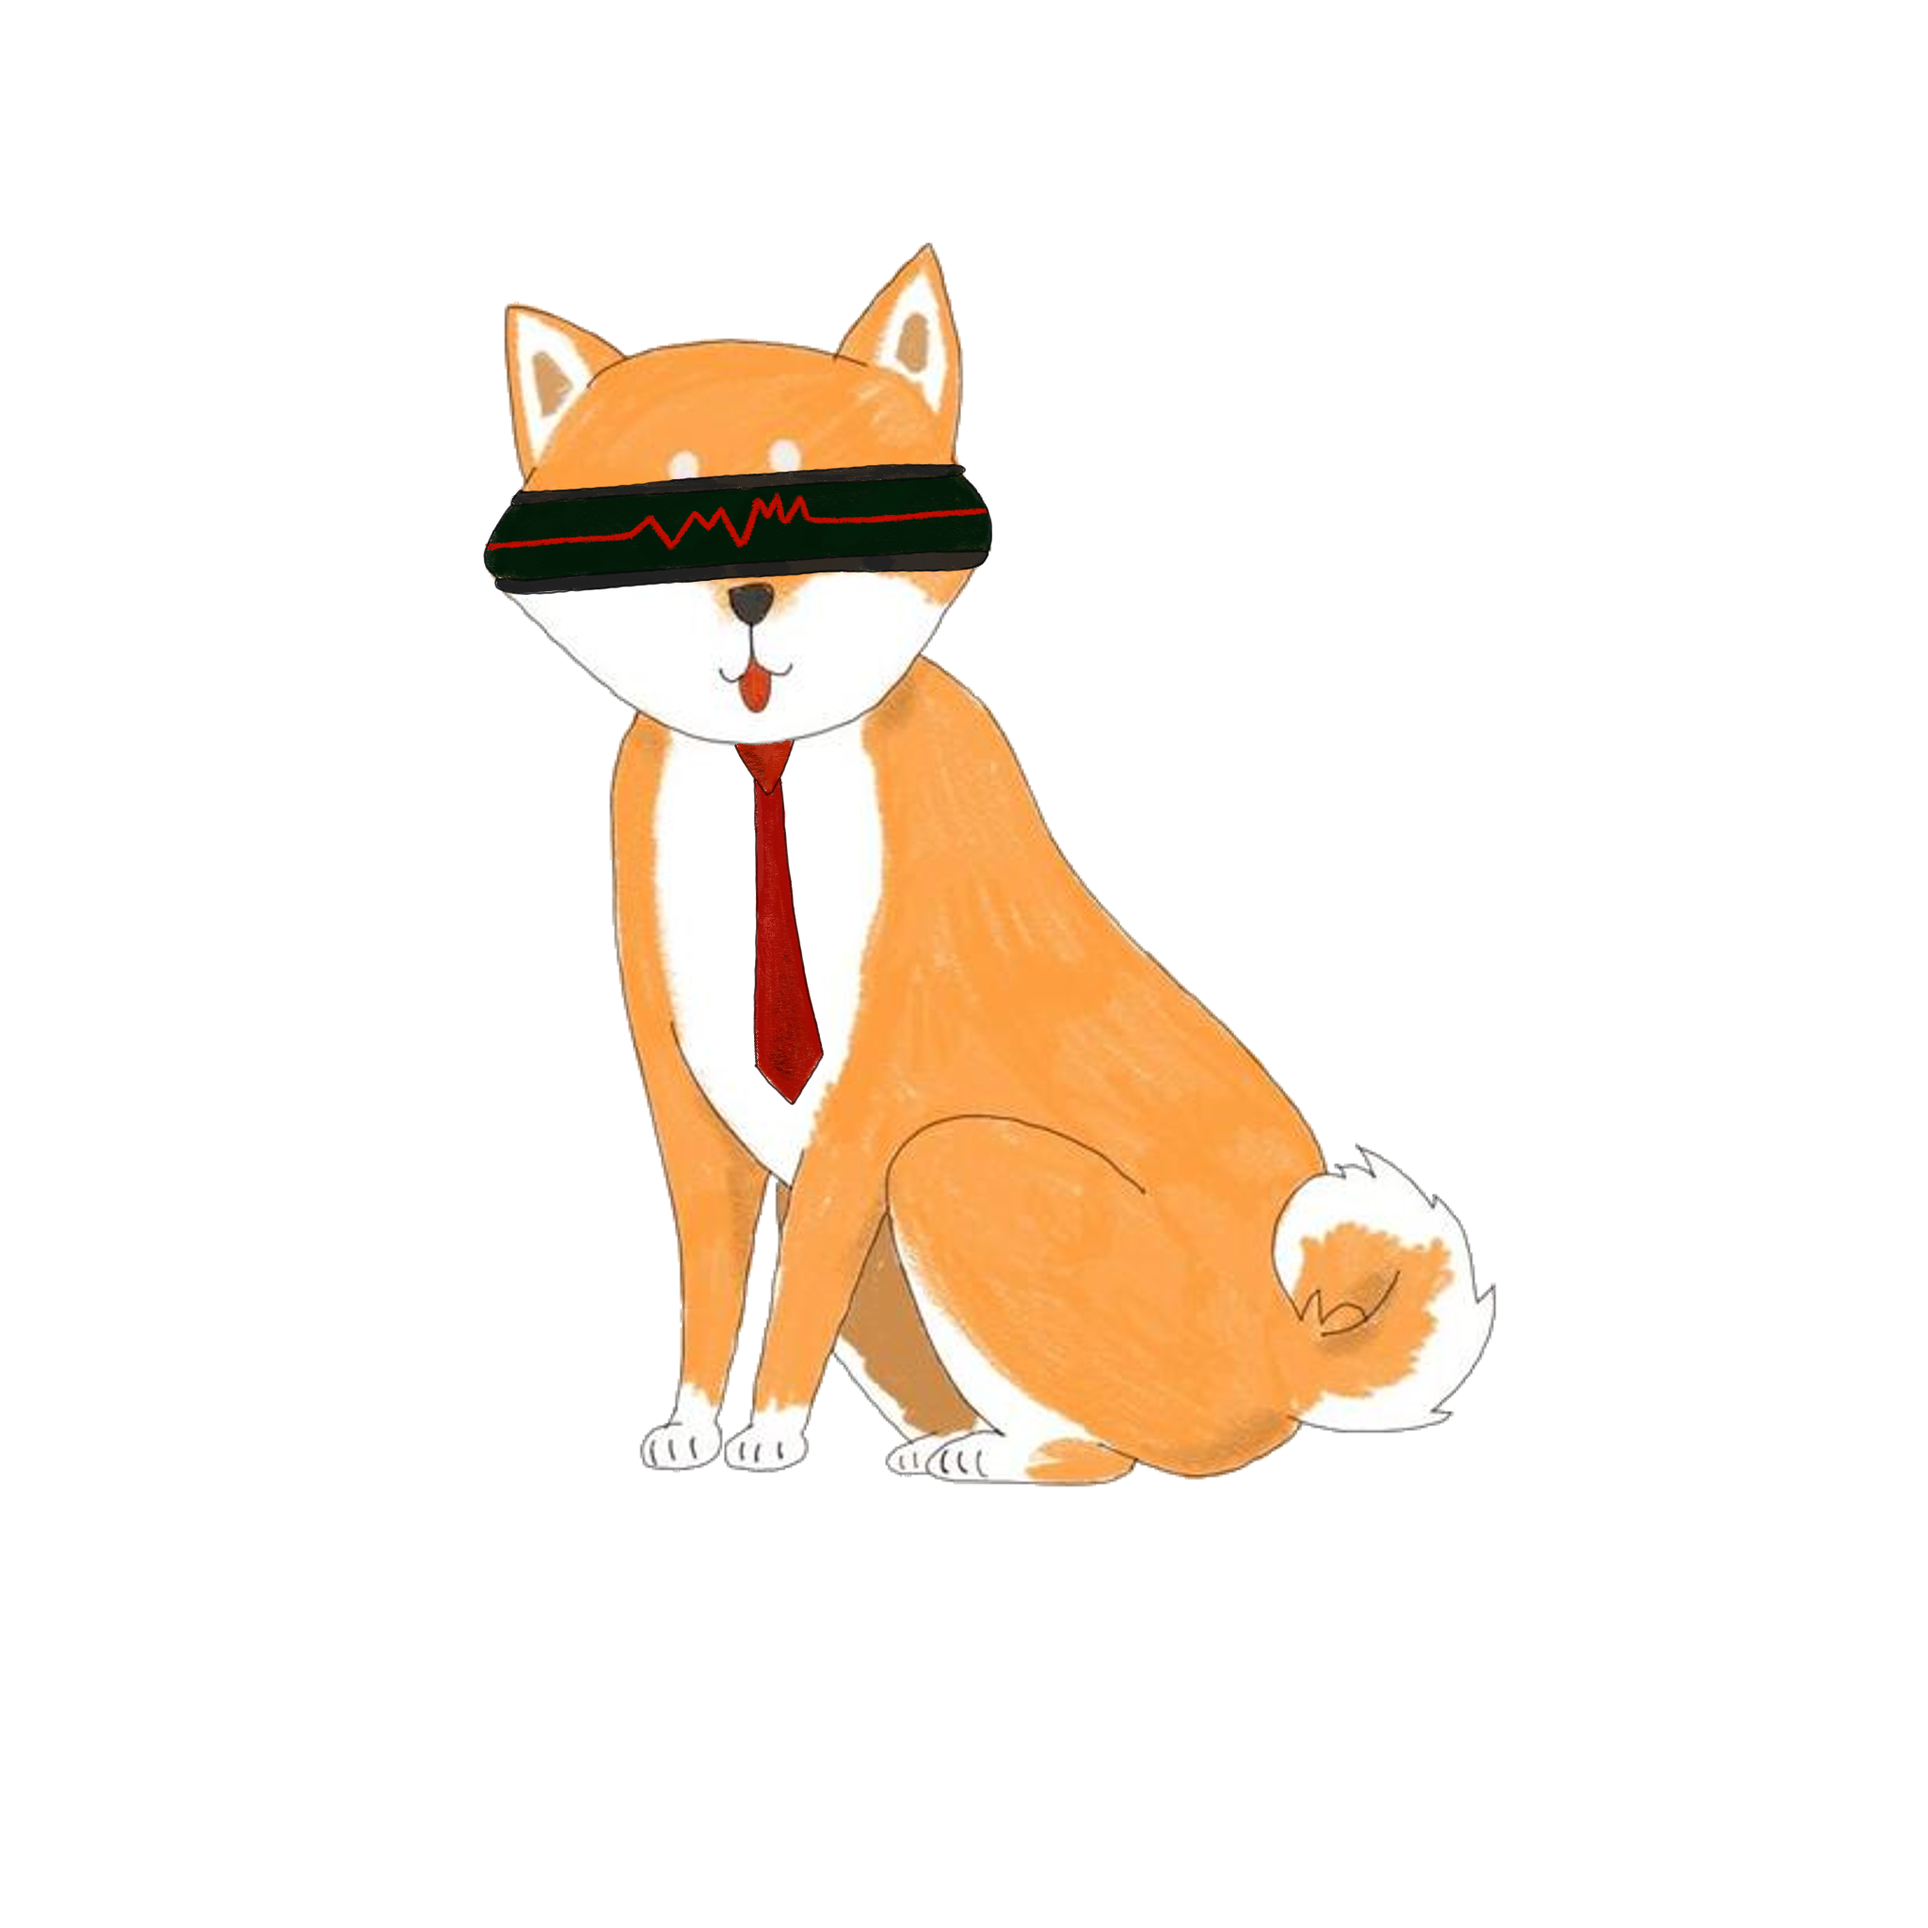
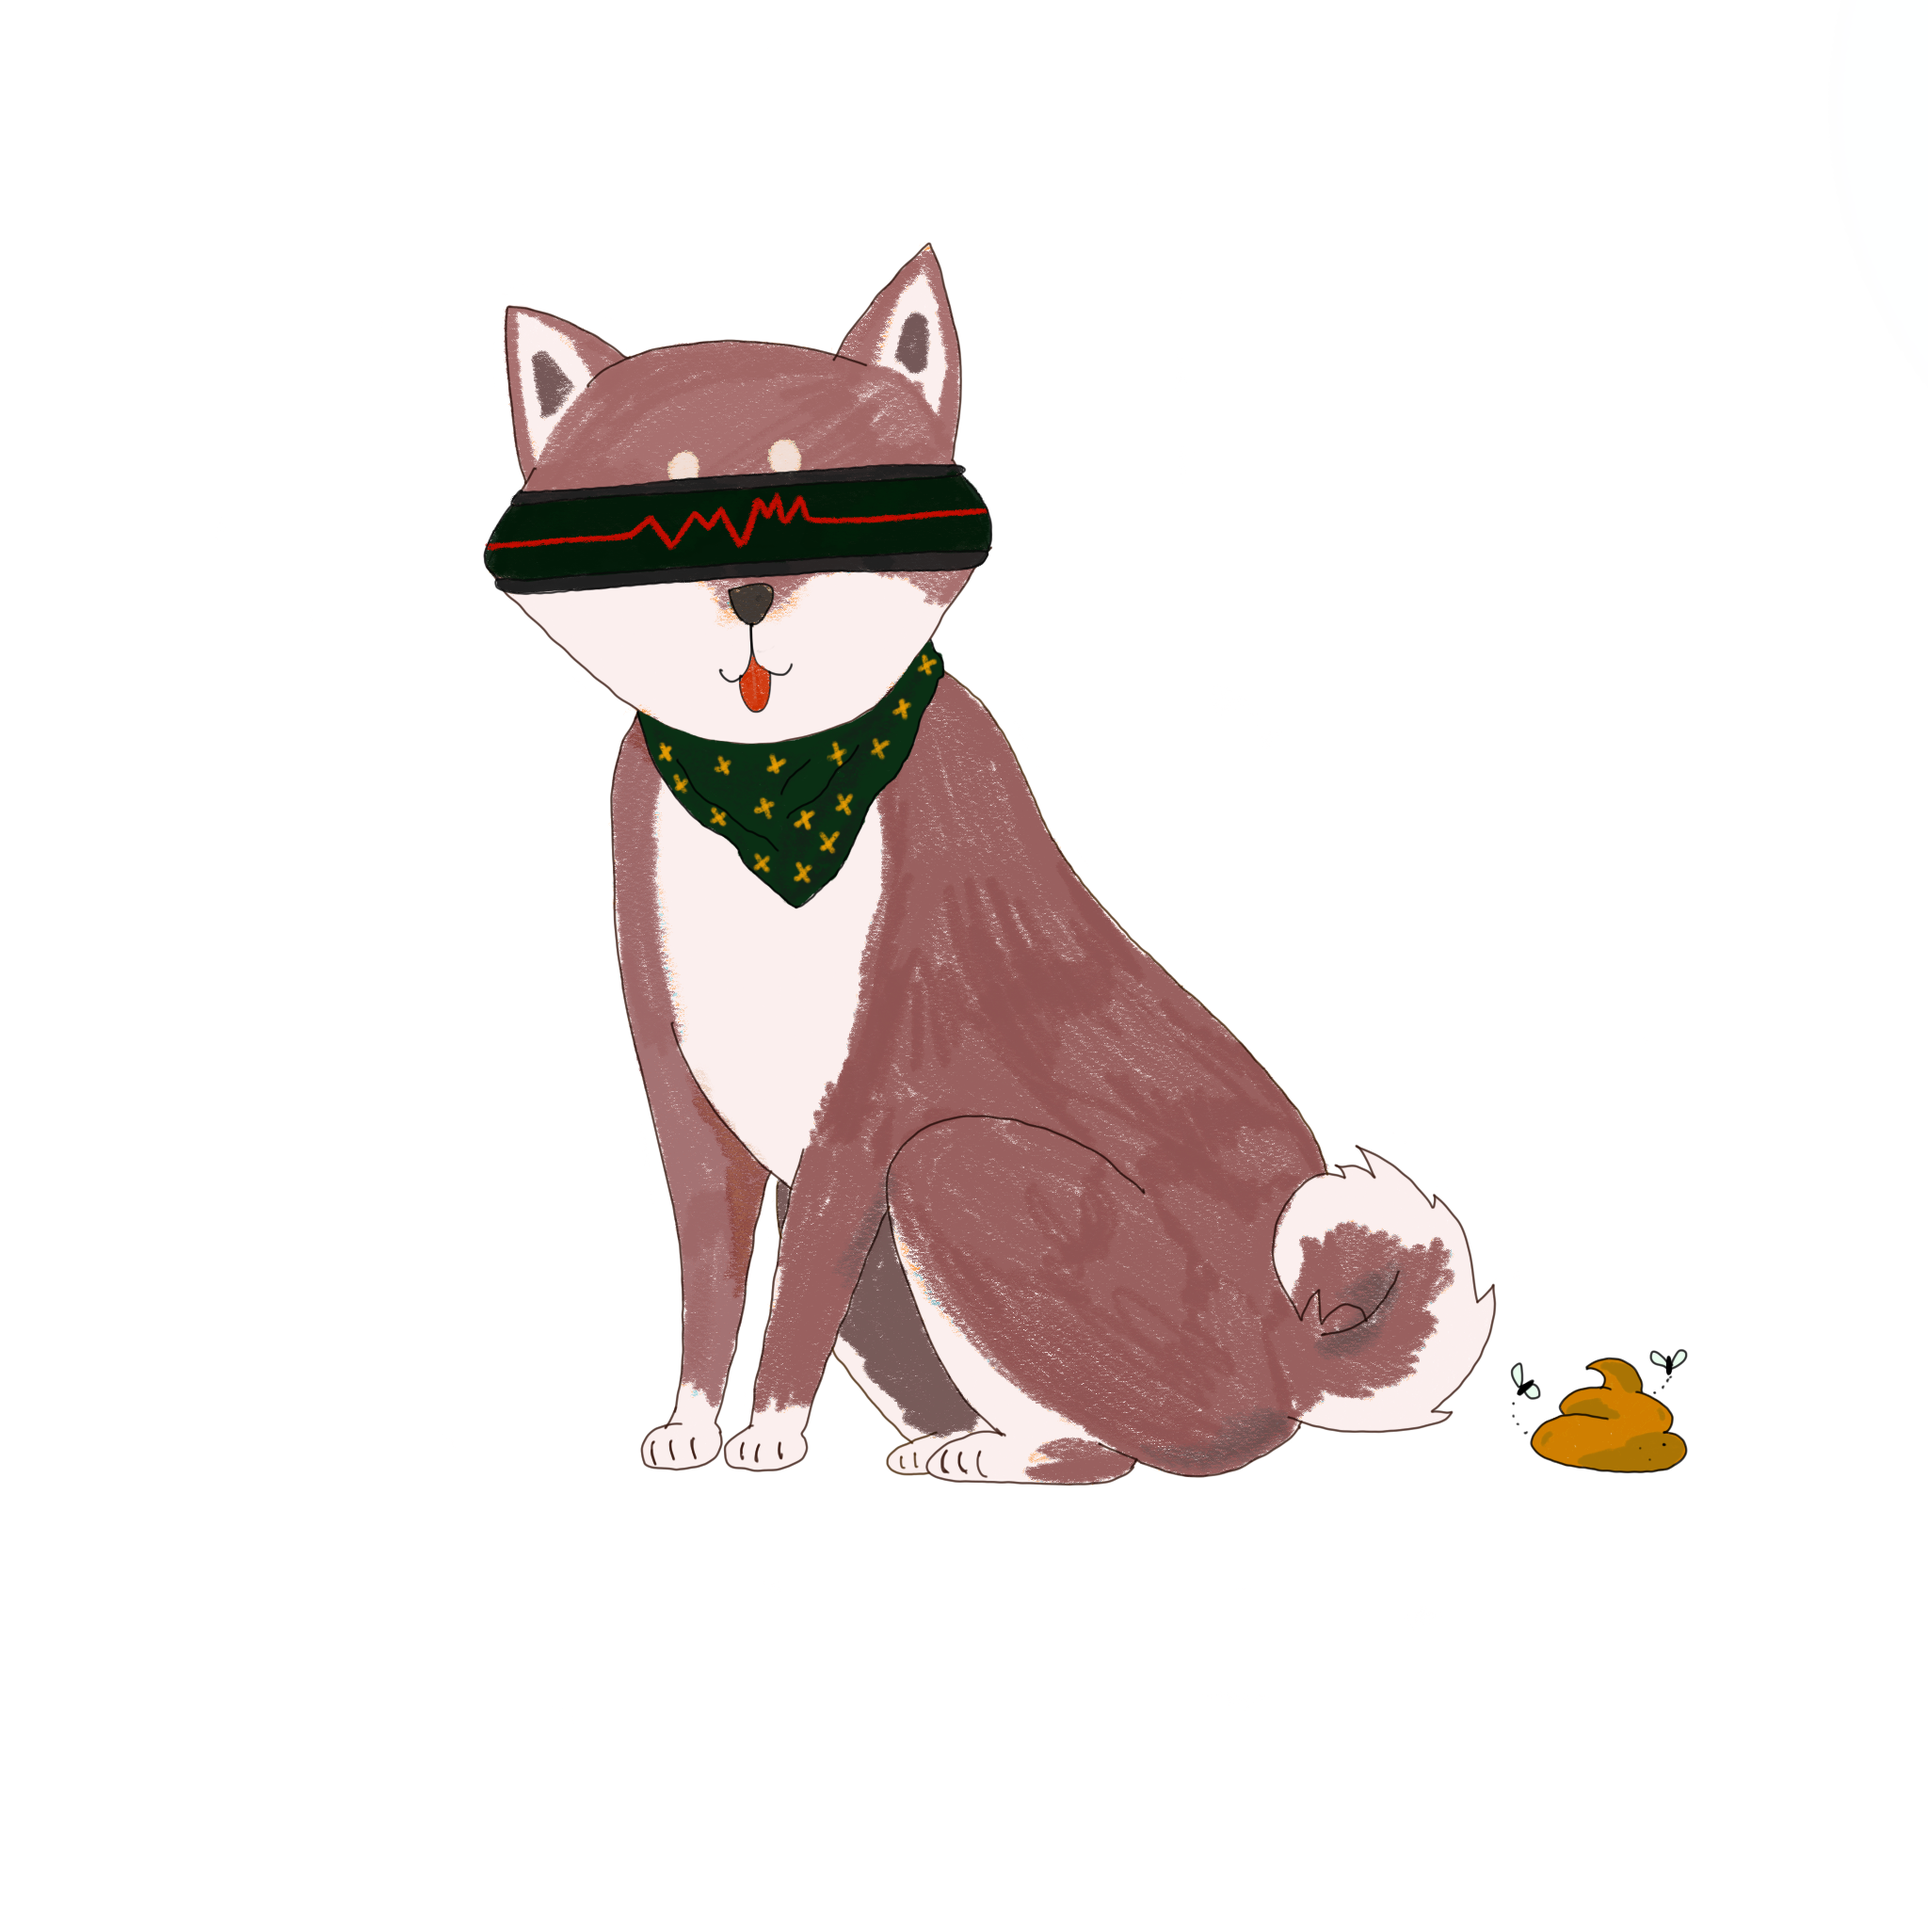
fixed nft generation + added more accessories

Changed region(s): [[0.3125, 0.2812, 0.7812, 0.7812], [0.25, 0.125, 0.5, 0.2812], [0.7812, 0.6875, 0.875, 0.7812]]

diff --git a/backend/nft.py b/backend/nft.py
@@ -6,32 +6,73 @@ import requests
 from base64 import b64encode
 import math
 
+# defining the total number of images for each
+num_hats = 1
+num_glasses = 4
+num_neck = 4
+num_shiba = 6
+num_poop = 9
 
-def generate_index(amount, num_hats, num_glasses, limit):
+def generate_index(amount, limit):
     hat = random.randint(1, int(amount))
     glasses = random.randint(1, int(amount))
+    neck = random.randint(1, int(amount))
+    shiba = random.randint(1, int(amount))
+    poop = random.randint(1, int(amount))
+
     hat_limit = limit/num_hats
     glasses_limit = limit/num_glasses
-    hat_index = hat_limit/hat
+    neck_limit = limit/num_neck
+    shiba_limit = limit/num_shiba
+    poop_limit = limit/num_poop
+
+    hat_index = hat/hat_limit
     if (hat_index >= num_hats):
         hat_index = num_hats - 1
-    glasses_index = glasses_limit/glasses
+
+    glasses_index = glasses/glasses_limit
     if (glasses_index >= num_glasses):
         glasses_index = num_glasses - 1
-    return (hat_index, glasses_index)
 
-def generate_nft(amount, file_name, num_hats, num_glasses, limit):
-    hat_index, glasses_index = generate_index(amount, num_hats, num_glasses, limit)
+    neck_index = neck/neck_limit
+    if (neck_index >= num_neck):
+        neck_index = num_neck - 1
+
+    shiba_index = shiba/shiba_limit
+    if (shiba_index >= num_shiba):
+        shiba_index = num_shiba - 1
+    
+    poop_index = poop/poop_limit
+    if (poop_index >= num_poop):
+        poop_index = num_poop - 1
+
+    index_list = [hat_index, glasses_index, neck_index, shiba_index, poop_index]
+    return index_list
+
+def generate_nft(amount, file_name, limit):
+    index_list = generate_index(amount, limit)
 
     # combine the hat and the glasses into one image
-    background = Image.open("default_images/hat" + str(math.floor(hat_index)) + ".png").resize((2048, 2048))
-    foreground = Image.open("default_images/glasses" + str(math.floor(glasses_index)) + ".png").resize((2048, 2048))
+    background = Image.open("default_images/hat" + str(math.floor(index_list[0])) + ".png").resize((2048, 2048))
+    foreground = Image.open("default_images/glasses" + str(math.floor(index_list[1])) + ".png").resize((2048, 2048))
     result = Image.alpha_composite(background, foreground)
-    result.save("generated_images/composite.png")
+    result.save("generated_images/composite1.png")
+
+    # combine the neck and the poop into one image
+    background = Image.open("default_images/neck" + str(math.floor(index_list[2])) + ".png").resize((2048, 2048))
+    foreground = Image.open("default_images/poop" + str(math.floor(index_list[4])) + ".png").resize((2048, 2048))
+    result = Image.alpha_composite(background, foreground)
+    result.save("generated_images/composite2.png")
+
+    # combine the accessories
+    background = Image.open("generated_images/composite1.png").resize((2048, 2048))
+    foreground = Image.open("generated_images/composite2.png").resize((2048, 2048))
+    result = Image.alpha_composite(background, foreground)
+    result.save("generated_images/composite3.png")
 
     # combine shiba and composite image
-    background = Image.open("default_images/shiba.png").resize((2048, 2048)).convert('RGBA')
-    foreground = Image.open("generated_images/composite.png").resize((2048, 2048)).convert('RGBA')
+    background = Image.open("default_images/shiba" + str(math.floor(index_list[3])) + ".png").resize((2048, 2048)).convert('RGBA')
+    foreground = Image.open("generated_images/composite3.png").resize((2048, 2048)).convert('RGBA')
     result = Image.alpha_composite(background, foreground)
     result.save("generated_images/final.png")
 
@@ -52,3 +93,7 @@ def generate_nft(amount, file_name, num_hats, num_glasses, limit):
         }
     )
     return (r.json()['data']['link'])
+
+
+# if __name__ == '__main__':
+#     generate_nft(800, "file", 400)

diff --git a/backend/api.py b/backend/api.py
@@ -5,8 +5,6 @@ import time
 import ocr
 import nft
 
-hats = []
-glasses = ["none", "heart", "laser", ""]
 limit = 400
 
 app = Flask(__name__)
@@ -44,7 +42,7 @@ def new_receipt():
     # generate string to use to make nft image using the total amount
     # higher value = better nft
     img_url = nft.generate_nft(
-        total, file_name, len(hats), len(glasses), limit)
+        total, file_name, limit)
 
     # update the global data
     with open("./global_data/global.json", "w") as rf:
